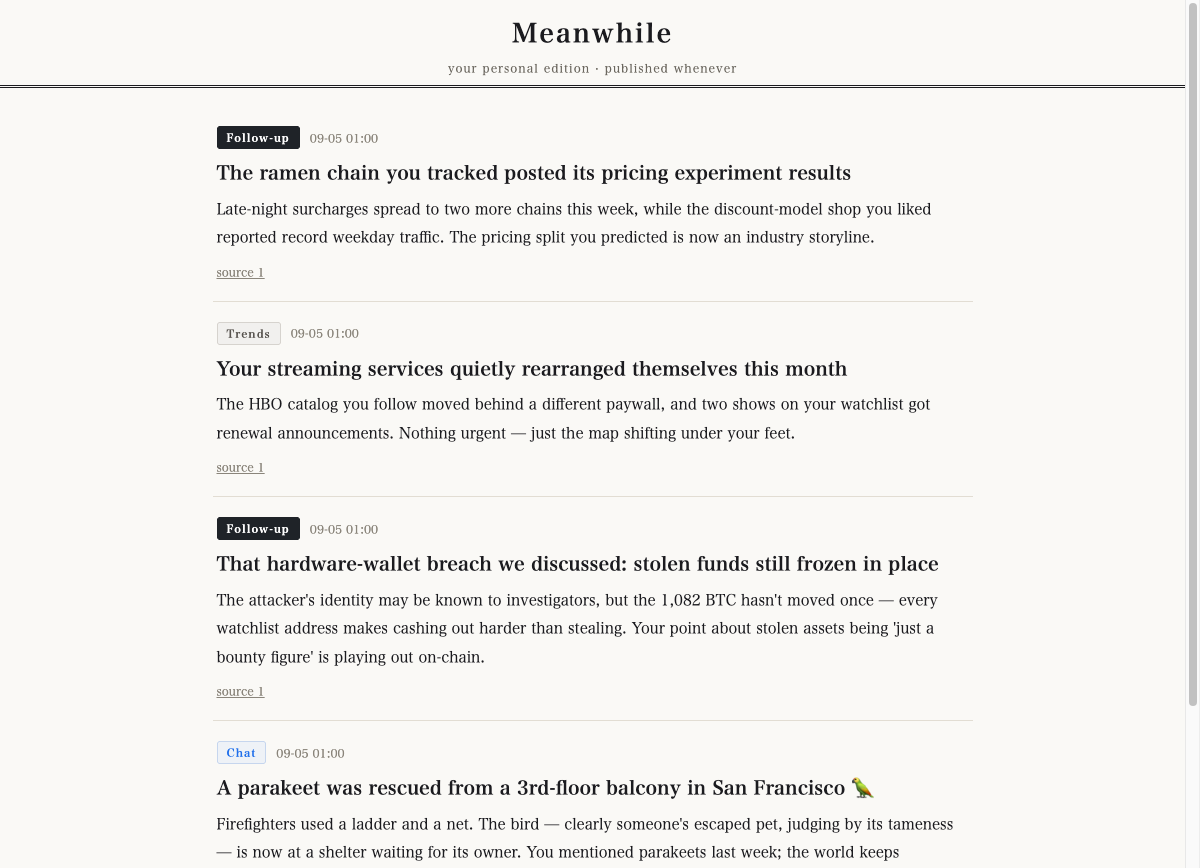
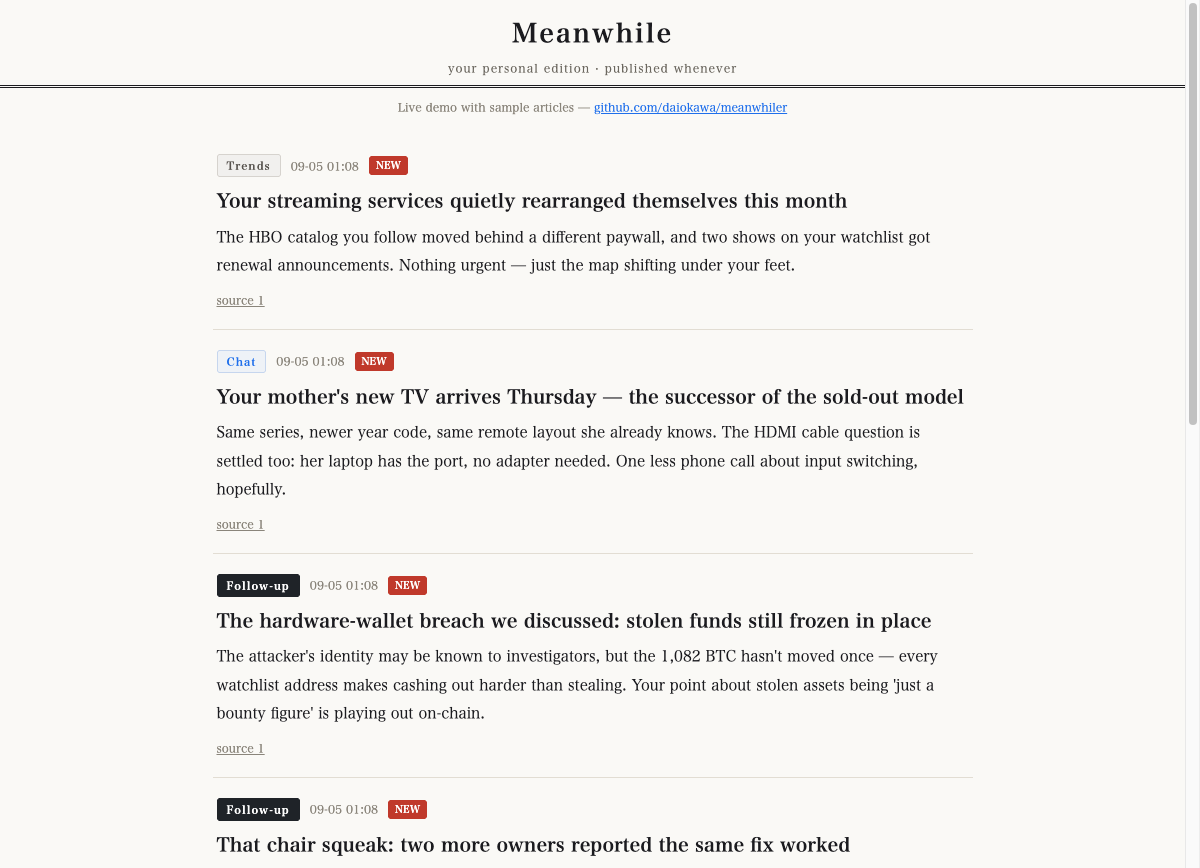
ライブデモ(ahillchan.com/meanwhiler)をREADMEに追加・スクショをパーソナル版デモに更新

Changed region(s): [[0.1542, 0.1244, 0.8017, 0.9954], [0.9867, 0.4666, 1.0, 0.8088], [0.4933, 0.1244, 0.6475, 0.1555]]

diff --git a/README.md b/README.md
@@ -2,6 +2,8 @@
 
 ![meanwhiler — a personal newspaper written by your own AI](assets/screenshot.png)
 
+**[▶ Live demo](https://ahillchan.com/meanwhiler)** — scroll a sample edition.
+
 *Meanwhile...* — while you were living your life, your topics kept moving. **meanwhiler** is a personal AI newspaper: your own Claude tracks the threads of your conversations and quietly publishes follow-ups to a local page. Like the narrator who says "Meanwhile..." — it watches the scenes you aren't in.
 
 - **No cookies. No tracking. Everything stays local.** Your AI reads *your* conversations on *your* machine; nothing leaves it
